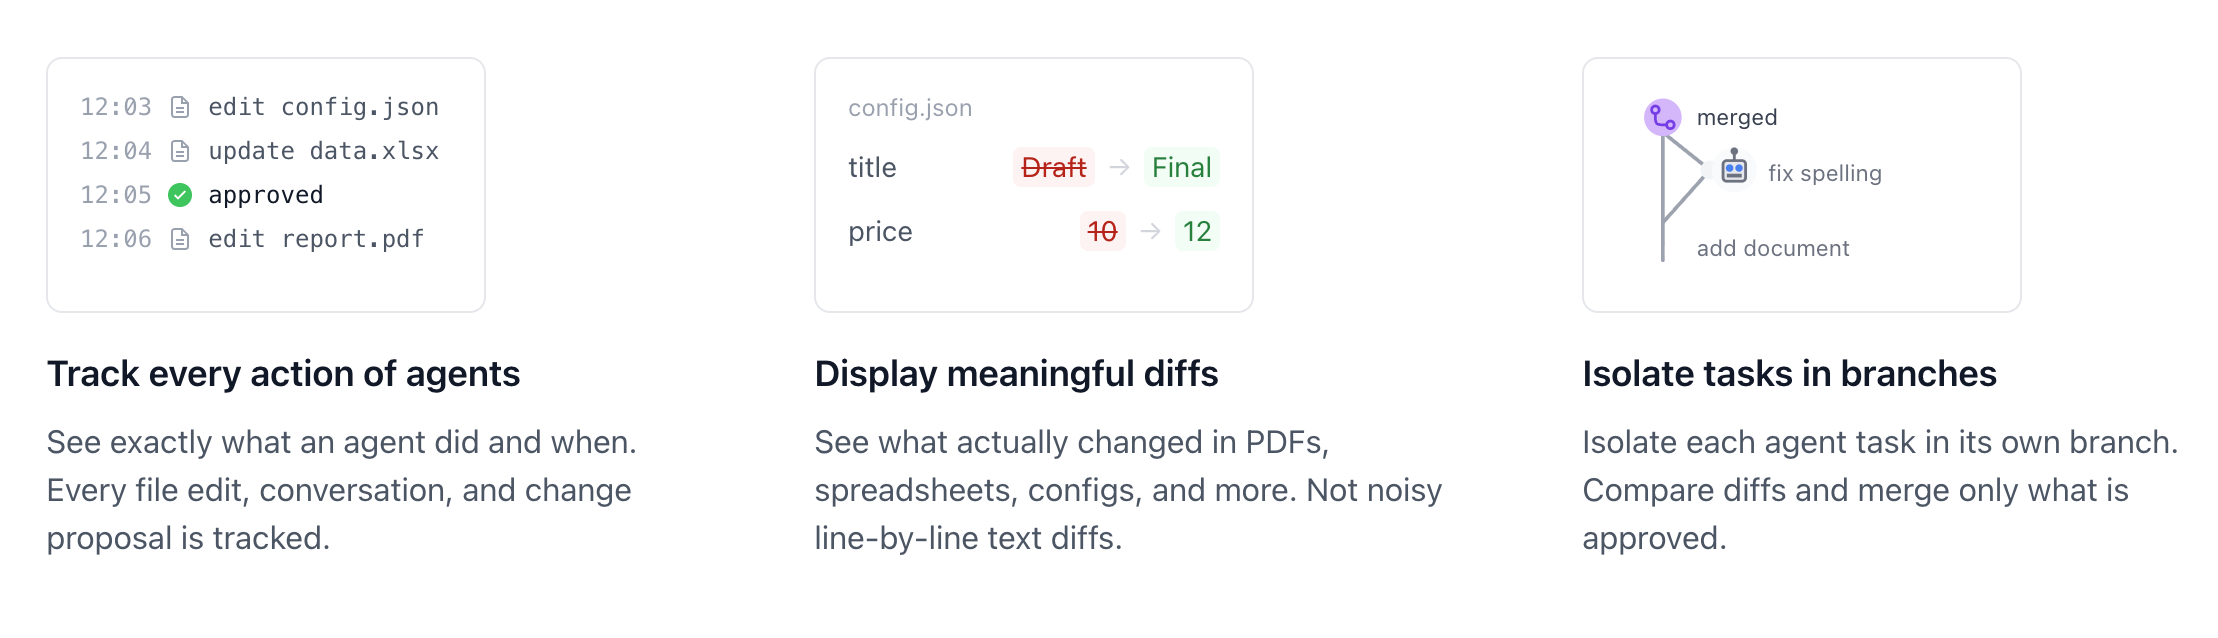
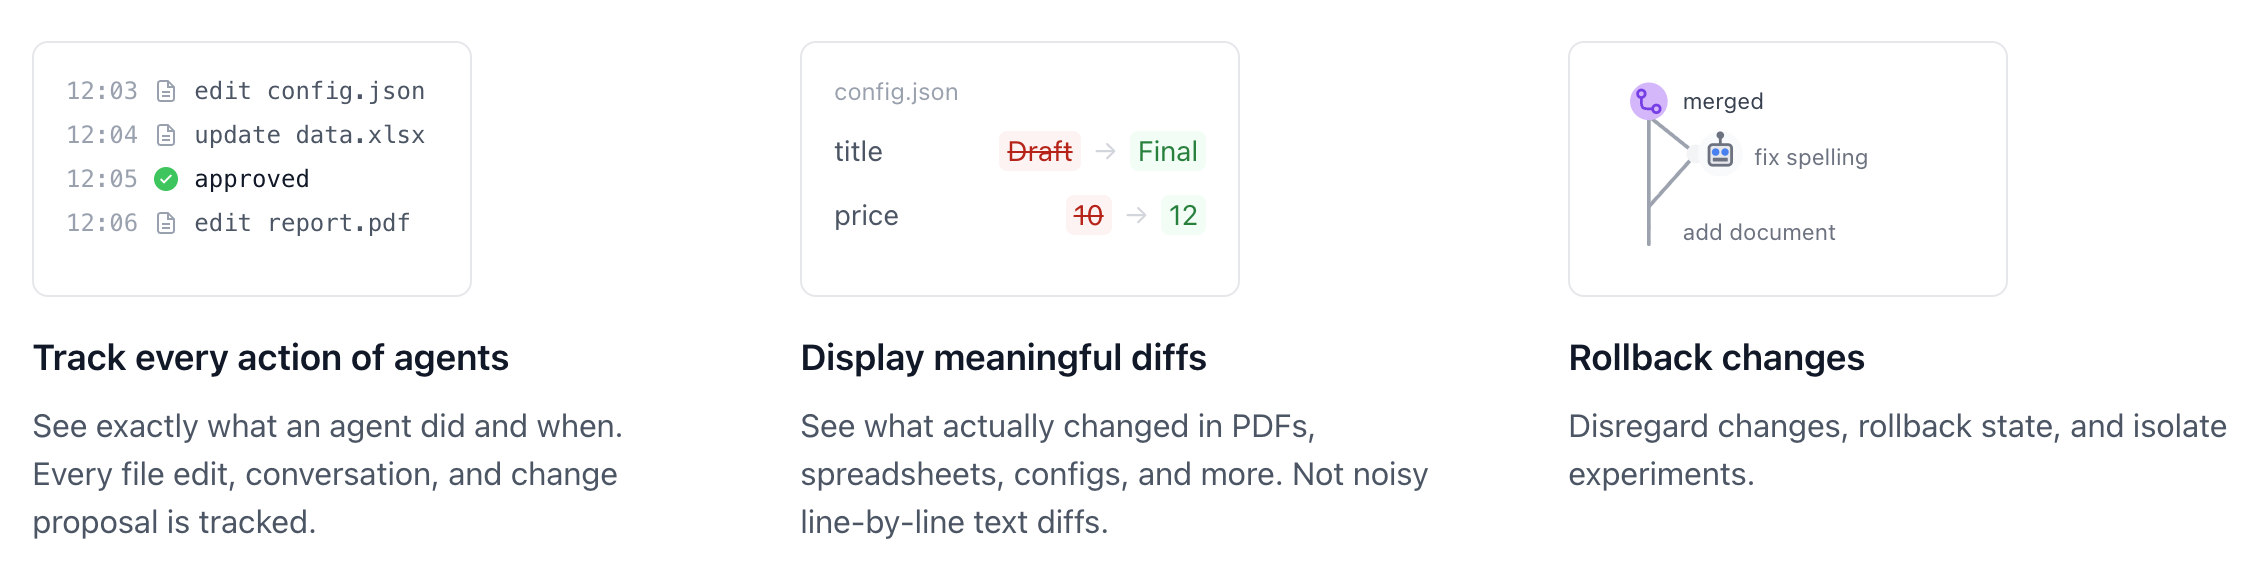
update readme

diff --git a/blog/001-introducing-lix/index.md b/blog/001-introducing-lix/index.md
@@ -7,13 +7,51 @@ og:description: "Lix is a universal version control system for any file format. 
 
 ## Introduction
 
-Lix is a **universal version control system** that can track changes in any file format.
+Lix is a **universal version control system** that can diff any file format (`.xlsx`, `.pdf`, `.docx`, etc).
 
-Unlike Git's line-based diffs, Lix understands file structure. Lix sees `price: 10 → 12` or `cell B4: pending → shipped`, not "line 4 changed" or "binary files differ". This makes Lix an ideal version control layer for AI agents operating on non-code formats.
+Unlike Git's line-based diffs, Lix understands file structure. Lix sees `price: 10 → 12` or `cell B4: pending → shipped`, not "line 4 changed" or "binary files differ". 
 
-### JSON example
+This makes Lix the ideal version control layer for AI agents operating on non-code formats.
 
-An agent changes `theme` in `settings.json`.
+### Excel file example
+
+An AI agent updates an order status in `orders.xlsx`.
+
+
+**Before:**
+```diff
+  | order_id | product  | status   |
+  | -------- | -------- | -------- |
+  | 1001     | Widget A | shipped  |
+  | -        | 1002     | Widget B | pending |
+```
+
+**After:**
+```diff
+  | order_id | product  | status   |
+  | -------- | -------- | -------- |
+  | 1001     | Widget A | shipped  |
+  | +        | 1002     | Widget B | shipped |
+```
+
+**Git sees:**
+
+```diff
+-Binary files differ
+```
+
+**Lix sees:**
+
+```diff
+order_id 1002 status: 
+
+- pending
++ shipped
+```
+
+### JSON file example
+
+Even for structured text file formats like `.json` lix is tracking semantics rather than line by line diffs. 
 
 **Before:**
 ```json
@@ -31,54 +69,26 @@ An agent changes `theme` in `settings.json`.
 +{"theme":"dark","notifications":true,"language":"en"}
 ```
 
-**Lix sees (illustrative):**
-```
-settings.json
-  property "theme": "light" → "dark"
-```
-
-### Excel example
-
-An agent updates an order status in `orders.xlsx`.
-
-**Before:**
-```
-| order_id | product    | status  |
-|----------|------------|---------|
-| 1001     | Widget A   | shipped |
-| 1002     | Widget B   | pending |
-```
-
-**After:**
-```
-| order_id | product    | status  |
-|----------|------------|---------|
-| 1001     | Widget A   | shipped |
-| 1002     | Widget B   | shipped |
-```
-
-**Git sees:** `Binary files differ`
-
 **Lix sees:**
-```
-orders.xlsx
-  order_id 1002 → status: "pending" → "shipped"
+
+```diff
+property theme: 
+- light
++ dark
 ```
 
 ## AI agents need version control
 
-AI agents modifying files need guardrails.
+Changes AI agents make need to be reviewable by humans.
 
-Git provides agents with guardrails for text files: review the diff, reject bad changes, roll back mistakes. 
+For code, Git solves this: review the diff, reject bad changes, roll back mistakes. Lix brings these primitives to any file format, not just text.
 
-Lix brings the same guardrails to any file format and agent outside of software engineering:
+- **Reviewable diffs**: See exactly what an agent changed in any file format.
+- **Human-in-the-loop**: Agents propose, humans approve.
+- **Safe rollback**: Undo mistakes instantly.
 
-- **See what changed**: Agent edits to spreadsheets, JSON, or other structured files are reviewable.
-- **Humans stay in control**: Agents propose changes; people decide what ships.
-- **Safe experimentation**: Agents work in isolated branches, not on production data.
 
 ![AI agent changes need to be visible and controllable](./ai-agents-guardrails.png)
-
 
 [Learn more about using Lix with agents →](/docs/lix-for-ai-agents/)
 
@@ -113,6 +123,10 @@ const diff = selectWorkingDiff({ lix })
 
 Lix adds a version control system on top of SQL databases.
 
+> [!NOTE]
+> Lix targets SQLite at the moment. [Upvote issue #372 for Postgres support →](https://github.com/opral/lix/issues/372)
+
+
 The Lix SDK exposes virtual tables like `file`, `file_history` that are queryable with plain SQL. 
 
 **Why this matters:**
@@ -139,34 +153,13 @@ The Lix SDK exposes virtual tables like `file`, `file_history` that are queryabl
 └─────────────────────────────────────────────────┘
 ```
 
-> [!NOTE]
-> Lix targets SQLite at the moment. [Upvote issue #372 for Postgres support →](https://github.com/opral/lix/issues/372)
+[Read more about Lix architecture →](https://lix.dev/docs/architecture)
 
-
-### How does lix detect changes?
-
-Inserts and updates to virtual tables like `file` are forwarded to plugins. Plugins parse the file and emit structured changes.
-
-Each plugin defines one or more **entities**, the smallest piece of data that can be independently created, updated, or deleted:
-
-- JSON → property
-- CSV → row
-- Excel → cell, row, columns
-
-```
-File:                                       Lix:
-┌────────────────────┐                      ┌────────────────────┐
-│ { "price": 10 }    │    ┌──────────┐      │ property "price"   │
-│        ↓           │───▶│   JSON   │───▶  │ changed: 10 → 12   │
-│ { "price": 12 }    │    │  Plugin  │      └────────────────────┘
-└────────────────────┘    └──────────┘
-```
-
-## Background
+## Why did we built lix? 
 
 Lix was developed alongside [inlang](https://inlang.com), open-source localization infrastructure.
 
-Solving localization requires Git's collaboration model (branches, diffs, merges) but Git only handles text files, in addition to other issues (see ["Git is unsuited for applications"](https://samuelstroschein.com/blog/git-limitations)). We even explored [designing git compatible file formats](https://github.com/opral/inlang/issues/3965) just to make Git's merge work. 
+Solving localization requires Git's collaboration model (branches, diffs, merges) but Git only handles text files, in addition to other issues (see ["Git is unsuited for applications"](https://samuelstroschein.com/blog/git-limitations)). 
 
 We had to develop a new version control system that addressed git's limitations inlang ran into. The result is Lix, now at over [90k weekly downloads on NPM](https://www.npmjs.com/package/@lix-js/sdk). 
 
@@ -175,8 +168,7 @@ We had to develop a new version control system that addressed git's limitations 
 ## What’s next
 
 - **Faster writes**: Move write handling fully into the SQL preprocessor ([RFC 001](https://lix.dev/rfc/001-preprocess-writes)).
-- **More robust engine + multi-language bindings**: Rewrite the core in Rust for better parsing, validation, and bindings beyond JS ([RFC 002](https://lix.dev/rfc/002-rewrite-in-rust)).
-- **Broader backends**: The preprocessor-first design unlocks future Postgres support ([tracking issue #372](https://github.com/opral/lix/issues/372)).
+- **Multi-language bindings**: Rewrite the core in Rust for better parsing, validation, and bindings beyond JS ([RFC 002](https://lix.dev/rfc/002-rewrite-in-rust)).
 
 ## Join the community
 

diff --git a/README.md b/README.md
@@ -16,23 +16,64 @@
 
 ---
 
-Git works for text files. Lix works for any file format.
+Lix is a **universal version control system** that can diff any file format (`.xlsx`, `.pdf`, `.docx`, etc).
 
-Unlike Git's line-based diffs, Lix understands file structure. You see `price: 10 → 12` or `cell B4: pending → shipped`, not "line 4 changed" or "binary files differ". This makes Lix an ideal version control layer for AI agents operating on non-code formats.
+Unlike Git's line-based diffs, Lix understands file structure through plugins. Lix sees `price: 10 → 12` or `cell B4: pending → shipped`, not "line 4 changed" or "binary files differ". This makes Lix the ideal version control layer for AI agents operating on non-code formats.
+
+| File format | Git | Lix |
+| ----------- | --- | --- |
+| Text        | ✓   | ✓   |
+| JSON        | ~   | ✓   |
+| Excel       | ✗   | ✓   |
+| PDF         | ✗   | ✓   |
+| Word        | ✗   | ✓   |
+| ...         | ✗   | ✓   |
 
 ## Why Lix
 
-Git provides guardrails for AI coding assistants. AI agents working beyond code need the same guardrails. Lix provides them.
+Changes AI agents make need to be reviewable by humans.
 
-- **Track agent actions**: See exactly what an agent did and when.
-- **Review meaningful diffs**: See what actually changed, not noisy line-by-line text.
-- **Isolate tasks in branches**: Propose changes for human review and merge only what's approved.
+For code, Git solves this: review the diff, reject bad changes, roll back mistakes. Lix brings these primitives to any file format, not just text.
 
-Plugins handle any file format. History is SQL-queryable. Everything lives in a single portable SQLite file.
+- **Reviewable diffs**: See exactly what an agent changed in any file format.
+- **Human-in-the-loop**: Agents propose, humans approve.
+- **Safe rollback**: Undo mistakes instantly.
+
+### Example: Excel
+
+An AI agent updates an order status in `orders.xlsx`.
+
+**Before:**
+```diff
+  | order_id | product  | status   |
+  | -------- | -------- | -------- |
+  | 1001     | Widget A | shipped  |
+  | -        | 1002     | Widget B | pending |
+```
+
+**After:**
+```diff
+  | order_id | product  | status   |
+  | -------- | -------- | -------- |
+  | 1001     | Widget A | shipped  |
+  | +        | 1002     | Widget B | shipped |
+```
+
+**Git sees:**
+```diff
+-Binary files differ
+```
+
+**Lix sees:**
+```diff
+order_id 1002 status:
+- pending
++ shipped
+```
 
 ### Example: JSON
 
-An agent changes `theme` in `settings.json`.
+Even for structured text file formats like `.json`, Lix tracks semantics rather than line-by-line diffs.
 
 **Before:**
 ```json
@@ -51,9 +92,10 @@ An agent changes `theme` in `settings.json`.
 ```
 
 **Lix sees:**
-```
-settings.json
-  property "theme": "light" → "dark"
+```diff
+property theme:
+- light
++ dark
 ```
 
 ## Quick Start
@@ -97,7 +139,7 @@ console.log(diff);
 
 ## How Lix Works
 
-Lix is a version control system that runs on top of an existing SQL(ite) database:
+Lix is a version control system that runs on top of SQL databases:
 
 - **Filesystem**: A virtual filesystem for files and directories
 - **Branching**: Isolate work in branches, compare, and merge
@@ -106,42 +148,25 @@ Lix is a version control system that runs on top of an existing SQL(ite) databas
 
 ```
 ┌─────────────────────────────────────────────────┐
-│                    Lix SDK                      │
+│                      Lix                        │
 │           (version control system)              │
 │                                                 │
 │ ┌────────────┐ ┌──────────┐ ┌─────────┐ ┌─────┐ │
-│ │ Filesystem │ │ Branching│ │ History │ │ ... │ │
+│ │ Filesystem │ │ Branches │ │ History │ │ ... │ │
 │ └────────────┘ └──────────┘ └─────────┘ └─────┘ │
-│                                                 │
 └────────────────────────┬────────────────────────┘
                          │
                          ▼
 ┌─────────────────────────────────────────────────┐
-│               SQL(ite) database                 │
+│                  SQL database                   │
 └─────────────────────────────────────────────────┘
 ```
 
-Everything lives in a single SQLite database file. Persist anywhere (S3, filesystem, sandbox, etc.).
 
-[Upvote issue #372 for Postgres support →](https://github.com/opral/lix/issues/372)
+> [!NOTE]
+> Lix targets SQLite at the moment. [Upvote issue #372 for Postgres support →](https://github.com/opral/lix/issues/372)
 
-## Comparison to Git
-
-Git was built for text files. It can't meaningfully diff spreadsheets, PDFs, or binary formats. Lix can—via plugins that understand file structure.
-
-**Example**
-
-- **Git**: "line 5 changed"
-- **Lix**: "price changed from $10 to $12"
-
-|              | Git                       | Lix             |
-| ------------ | ------------------------- | --------------- |
-| Diffs        | Line-based                | Schema-aware    |
-| File formats | Text                      | Any via plugins |
-| Metadata     | External (GitHub, GitLab) | In the repo     |
-| Interface    | CLI                       | SDK             |
-
-[Full comparison to Git →](https://lix.dev/docs/comparison-to-git)
+[Read more about Lix architecture →](https://lix.dev/docs/architecture)
 
 ## Learn More
 

diff --git a/packages/website/content/docs/architecture.md b/packages/website/content/docs/architecture.md
@@ -194,6 +194,25 @@ Versions are isolated by design:
 - Deletions in a version are cheap—no cascade across versions needed
 - Enables safe parallel development without conflicts
 
+## Change Detection
+
+Inserts and updates to virtual tables like `file` are forwarded to plugins. Plugins parse the file and emit structured changes.
+
+Each plugin defines one or more **entities**, the smallest piece of data that can be independently created, updated, or deleted:
+
+- JSON → property
+- CSV → row
+- Excel → cell, row, columns
+
+```
+File:                                       Lix:
+┌────────────────────┐                      ┌────────────────────┐
+│ { "price": 10 }    │    ┌──────────┐      │ property "price"   │
+│        ↓           │───▶│   JSON   │───▶  │ changed: 10 → 12   │
+│ { "price": 12 }    │    │  Plugin  │      └────────────────────┘
+└────────────────────┘    └──────────┘
+```
+
 ## Integration Points
 
 ### How Plugins Integrate